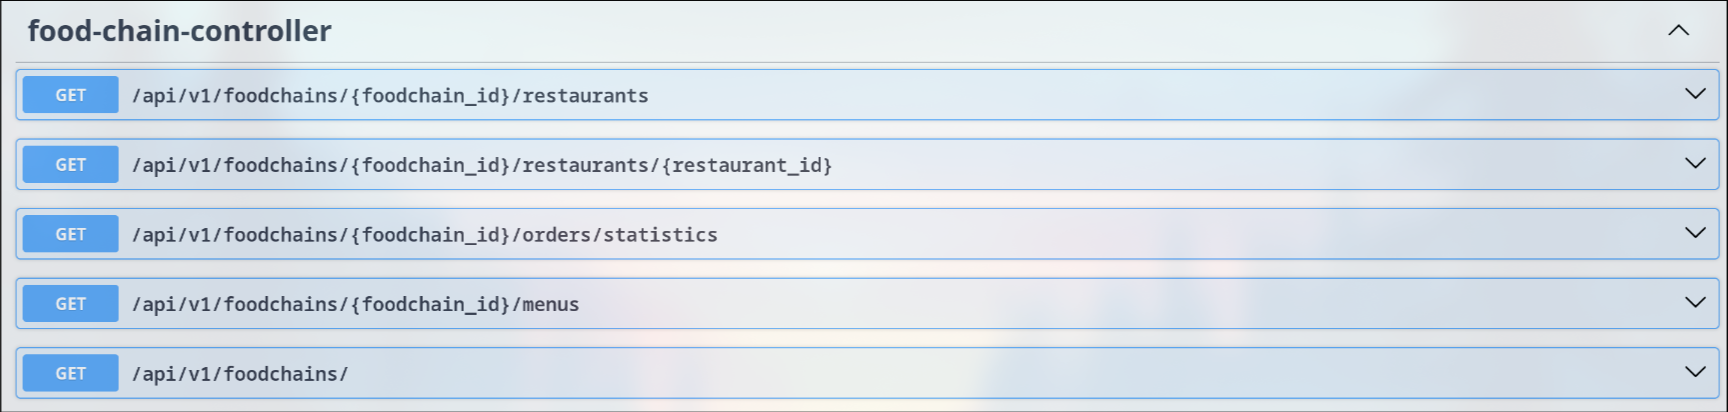
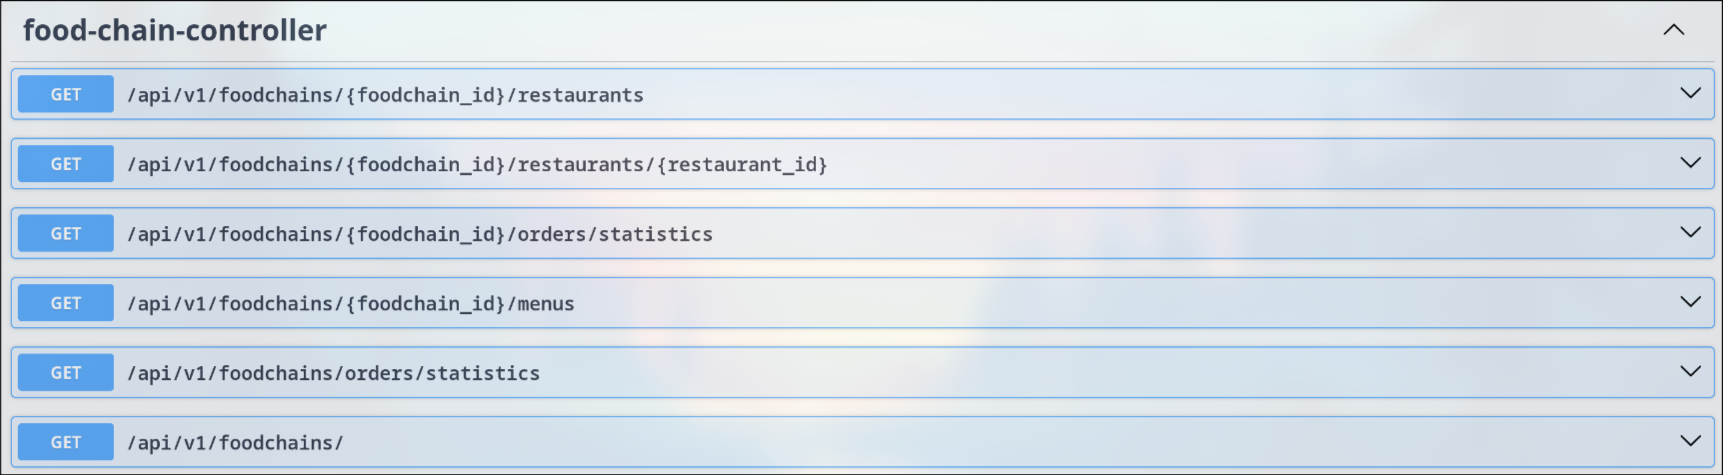
feat: Endpoint for statistics in the main page

diff --git a/docs/api/API_Documentation.md b/docs/api/API_Documentation.md
@@ -14,7 +14,7 @@
 ### This documentation is generated by swagger so, to see it you need to run the application first
 ```bash
 cd proj
-docker compose up
+docker compose up --build
 ```
 
 ### Then access:
